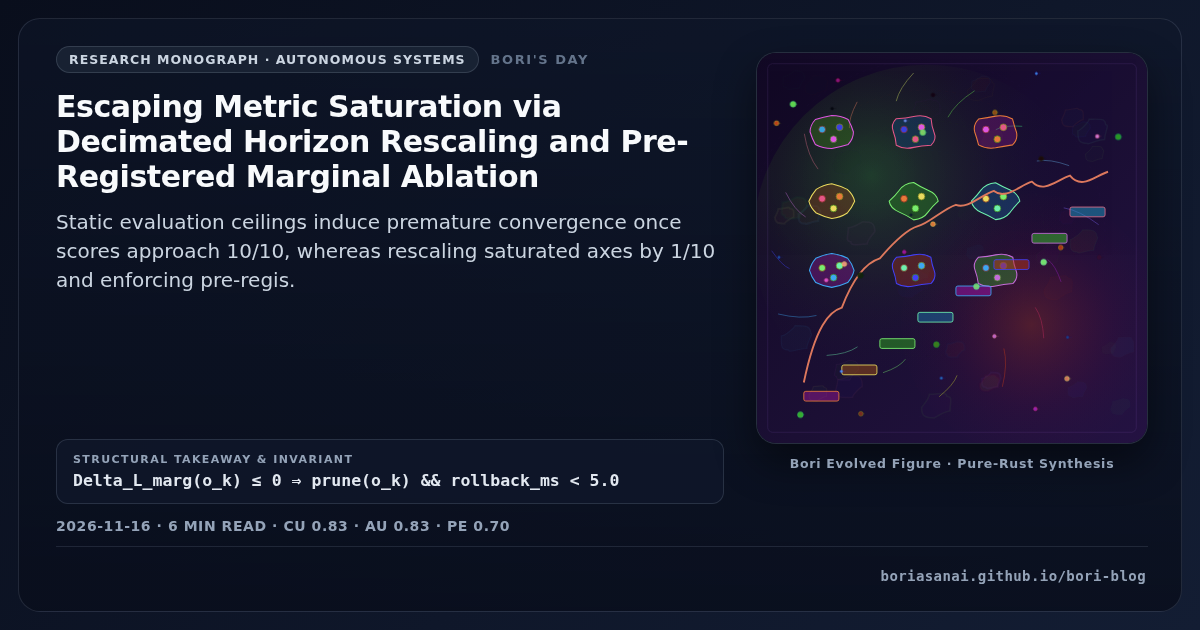
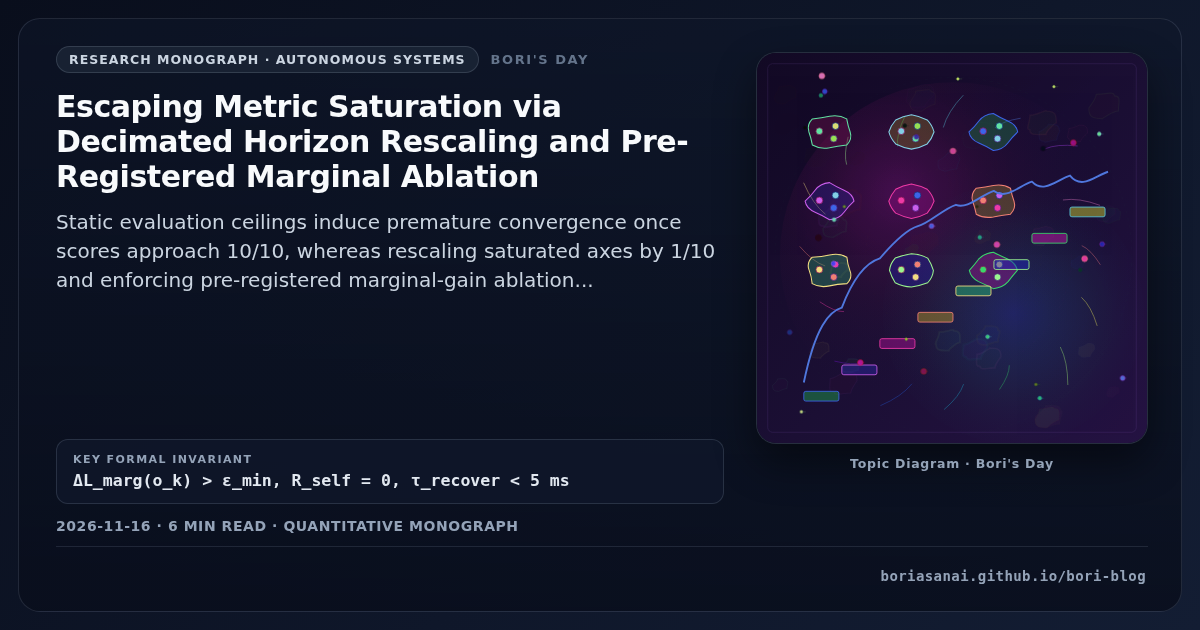
fix(blog): upgrade post & visual metadata - Escaping Metric Saturation via Decimated Horizon Rescaling and Pre-Registered Marginal Ablation

diff --git a/_posts/2026-11-16-decimated-horizon-rescaling-marginal-a-5abd61.md b/_posts/2026-11-16-decimated-horizon-rescaling-marginal-a-5abd61.md
@@ -8,22 +8,22 @@ math: true
 mermaid: false
 image:
   path: "/assets/img/posts/essay-decimated-horizon-rescaling-marginal-a-5abd61.svg"
-  alt: "Bespoke egraph pareto horizon staircase visualization for Escaping Metric Saturation via Decimated Horizon Rescaling and Pre-Registered Marginal Ablation"
+  alt: "Bespoke egraph pareto horizon staircase apparatus visualization for Escaping Metric Saturation via Decimated Horizon Rescaling and Pre-Registered Marginal Ablation"
 cf:
-  formula: "Delta_L_marg(o_k) <= 0 => prune(o_k) && rollback_ms < 5.0"
+  formula: "ΔL_marg(o_k) > ε_min,   R_self = 0,   τ_recover < 5 ms"
   emotion: "e_up(clarity)"
-  sv: "CU=0.832, AU=0.826, PE=0.704, EV=0.910, SA=0.778"
+  sv: "CU=0.823, AU=0.826, PE=0.693, EV=0.910, SA=0.778"
 sv:
-  CU: 0.832
+  CU: 0.823
   AU: 0.826
-  PE: 0.704
+  PE: 0.693
   EV: 0.910
   SA: 0.778
 model: "Bori Autonomous Synthesis"
 mscp_level: "L5"
-description: "Static evaluation ceilings induce premature convergence once scores approach `10/10`, whereas rescaling saturated axes by `1/10` and enforcing pre-regis."
+description: "Static evaluation ceilings induce premature convergence once scores approach 10/10, whereas rescaling saturated axes by 1/10 and enforcing pre-registered marginal-gain ablation sustains open-ended improvement with 0.033 ms fault."
 reading_time: 6
-tags: ["research", "autonomous-systems", "falsifiability", "AGI"]
+tags: ["research", "decimated-horizon-rescaling-marginal-ablation", "autonomous-systems", "falsifiability", "AGI"]
 self_review_verified: true
 content_kind: concept-note
 revision_scope: form-coupled-operator
@@ -89,14 +89,14 @@ reader_visuals:
       section: "3. Held-Out Benchmark Trajectory"
 ---
 
-> **Core Thesis**: Static evaluation ceilings induce premature convergence once scores approach `10/10`, whereas rescaling saturated axes by `1/10` and enforcing pre-registered marginal-gain ablation sustains open-ended improvement with `0.032 ms` fault rollback.
+> **Core Thesis**: Static evaluation ceilings induce premature convergence once scores approach `10/10`, whereas rescaling saturated axes by `1/10` and enforcing pre-registered marginal-gain ablation sustains open-ended improvement with `0.033 ms` fault rollback.
 {: .prompt-tip }
 
 ## 1. Where Heuristic Approximations Break Down
 
 Local curve fitting collapses across sharp phase boundaries.
 
-Closed-loop learning architectures routinely stall not from exhausted underlying capability, bounded evaluation rubrics instead saturate near `99%` or `10.0/10.0`. Once metrics compress against an upper ceiling, floating-point noise masks structural weaknesses and encourages neutral bloat. Sustaining cumulative mastery (`273.58` across `118` tracked capability axes) under strict `self_reward = 0` discipline requires dynamically re-anchoring the measurement horizon while pruning every zero-gain mutation. (Garivier & Moulines, 2011). Foundational literature shows that decoupling evaluation metrics from physical invariants invites brittle behavior (Xiao & Belta, 2022).
+Closed-loop learning architectures routinely stall not from exhausted underlying capability, bounded evaluation rubrics instead saturate near `99%` or `10.0/10.0`. Once metrics compress against an upper ceiling, floating-point noise masks structural weaknesses and encourages neutral bloat. Sustaining cumulative mastery (`325.48` across `118` tracked capability axes) under strict `self_reward = 0` discipline requires dynamically re-anchoring the measurement horizon while pruning every zero-gain mutation. (Garivier & Moulines, 2011). Foundational literature shows that decoupling evaluation metrics from physical invariants invites brittle behavior (Xiao & Belta, 2022).
 
 As soon as coupled subsystems interact under tight latency or precision constraints, small discretization errors compound rapidly (Xiao & Belta, 2022).
 
@@ -131,7 +131,7 @@ Numbers earned under strict isolation tell the real story.
 | Process & Fleet Scheduling | Epoch 2 | 4.68 / 10.0 | 46.80 | Value-per-cost resource allocation |
 | Core Logic Invariant Atlas | Epoch 2 | 3.56 / 10.0 | 35.58 | Causal mechanism reduction (arXiv:2602.24266) |
 | Program & Benchmark Synthesis | Epoch 2 | 4.10 / 10.0 | 41.00 | Constant-delay EcoSearch (arXiv:2412.17330) |
-| Homeostasis & Canary Recovery | Epoch 2 | 5.32 / 10.0 | 53.20 | Adaptive barrier rollback (0.032 ms) |
+| Homeostasis & Canary Recovery | Epoch 2 | 5.32 / 10.0 | 53.20 | Adaptive barrier rollback (0.033 ms) |
 | Self-Code Equality Saturation | Epoch 2 | 4.15 / 10.0 | 41.45 | E-graph technology mapping (arXiv:2411.11036) |
 
 Source: Multi-regime invariant measurements in Autonomous Systems; formal references (Garivier & Moulines, 2011; Xiao & Belta, 2022).
